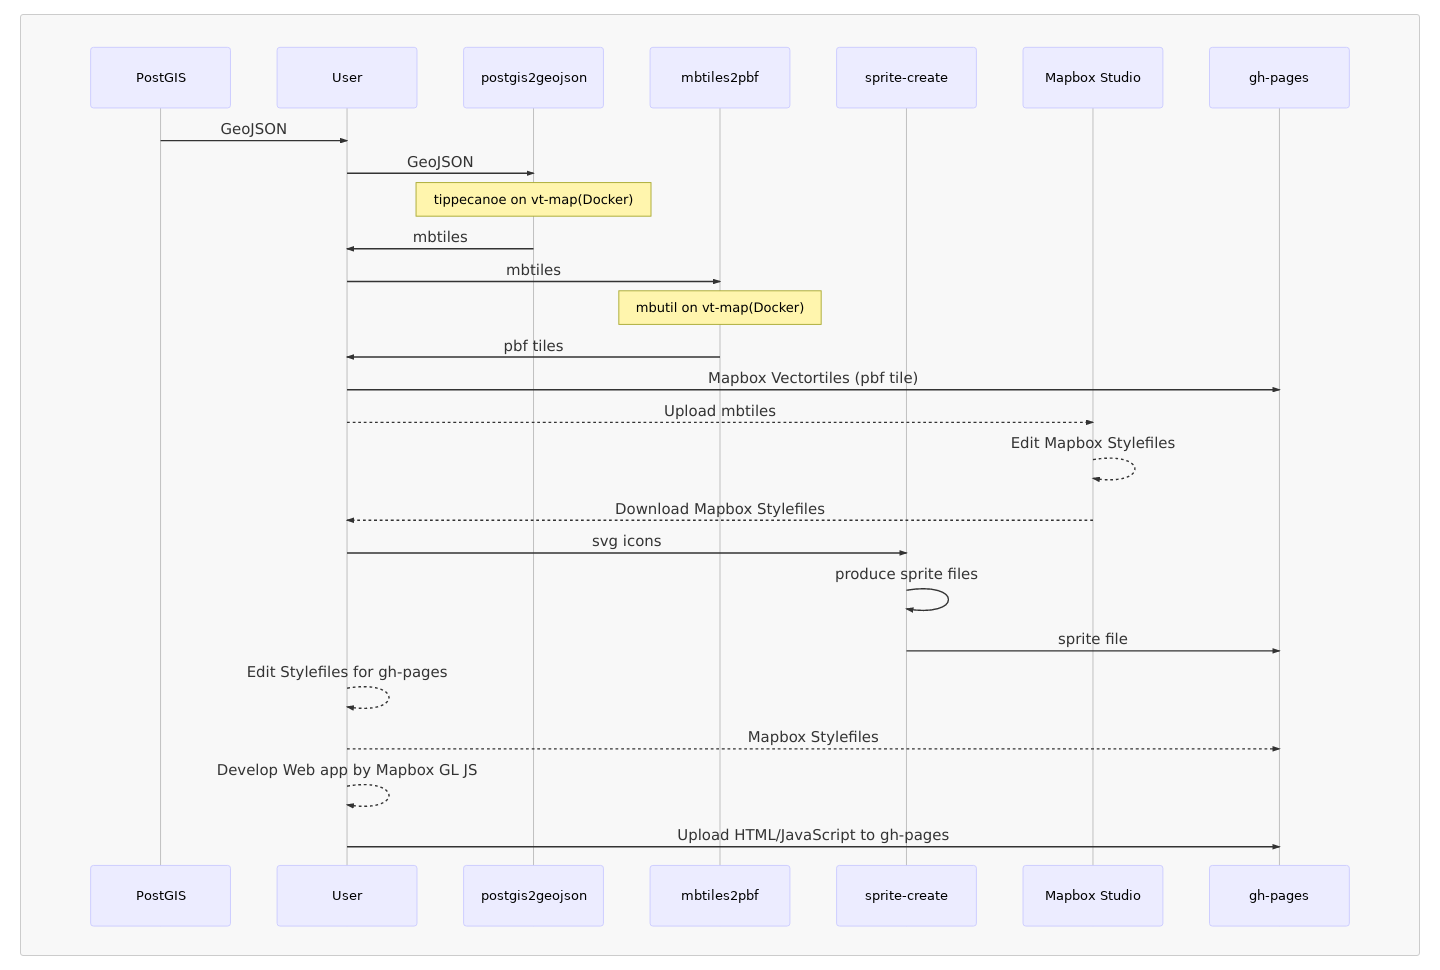
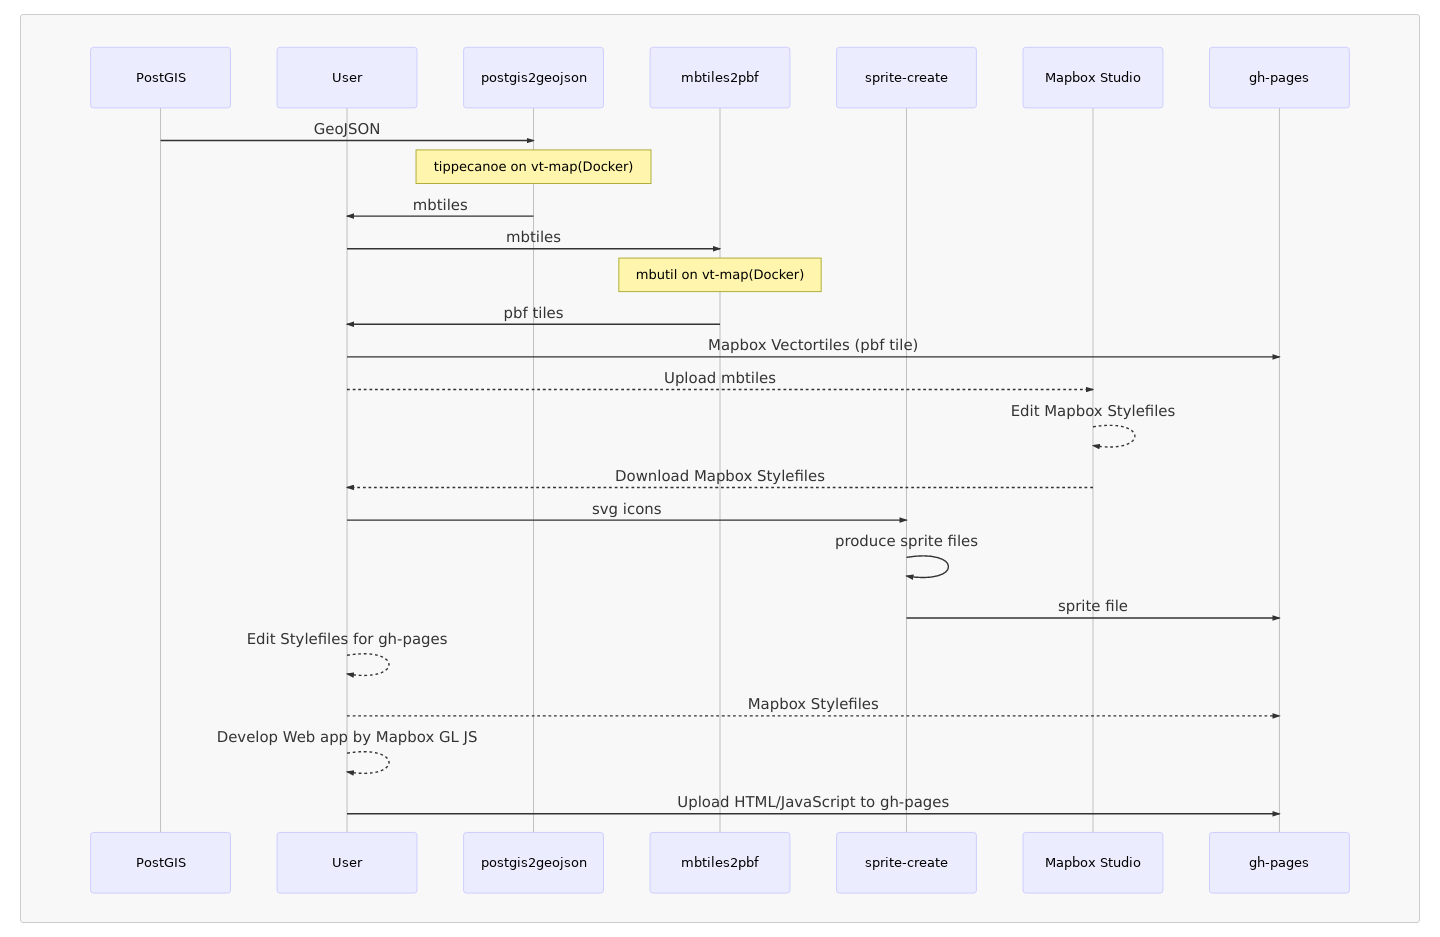
updated README.md

diff --git a/images/procedures.html b/images/procedures.html
@@ -373,8 +373,7 @@ code {
     participant c as sprite-create
     participant y as Mapbox Studio
     participant z as gh-pages
-    db->>x: GeoJSON
-    x->>a: GeoJSON
+    db->>a: GeoJSON
     Note over a: tippecanoe on vt-map(Docker)
     a->>x: mbtiles
     x->>b: mbtiles

diff --git a/README.md b/README.md
@@ -1,4 +1,7 @@
-# awesome-narok-vector-tiles [![Awesome](https://cdn.rawgit.com/sindresorhus/awesome/d7305f38d29fed78fa85652e3a63e154dd8e8829/media/badge.svg)](https://github.com/sindresorhus/awesome)
+# awesome-narok-vector-tiles 
+[![Awesome](https://cdn.rawgit.com/sindresorhus/awesome/d7305f38d29fed78fa85652e3a63e154dd8e8829/media/badge.svg)](https://github.com/sindresorhus/awesome)
+[![Gitter](https://badges.gitter.im/narwassco/community.svg)](https://gitter.im/narwassco/community?utm_source=badge&utm_medium=badge&utm_campaign=pr-badge)
+
 This is awesome implementations of the Mapbox Vector Tile for Narok Water
 
 ## Procedures

diff --git a/images/procedures.md b/images/procedures.md
@@ -8,8 +8,7 @@ sequenceDiagram
     participant c as sprite-create
     participant y as Mapbox Studio
     participant z as gh-pages
-    db->>x: GeoJSON
-    x->>a: GeoJSON
+    db->>a: GeoJSON
     Note over a: tippecanoe on vt-map(Docker)
     a->>x: mbtiles
     x->>b: mbtiles
